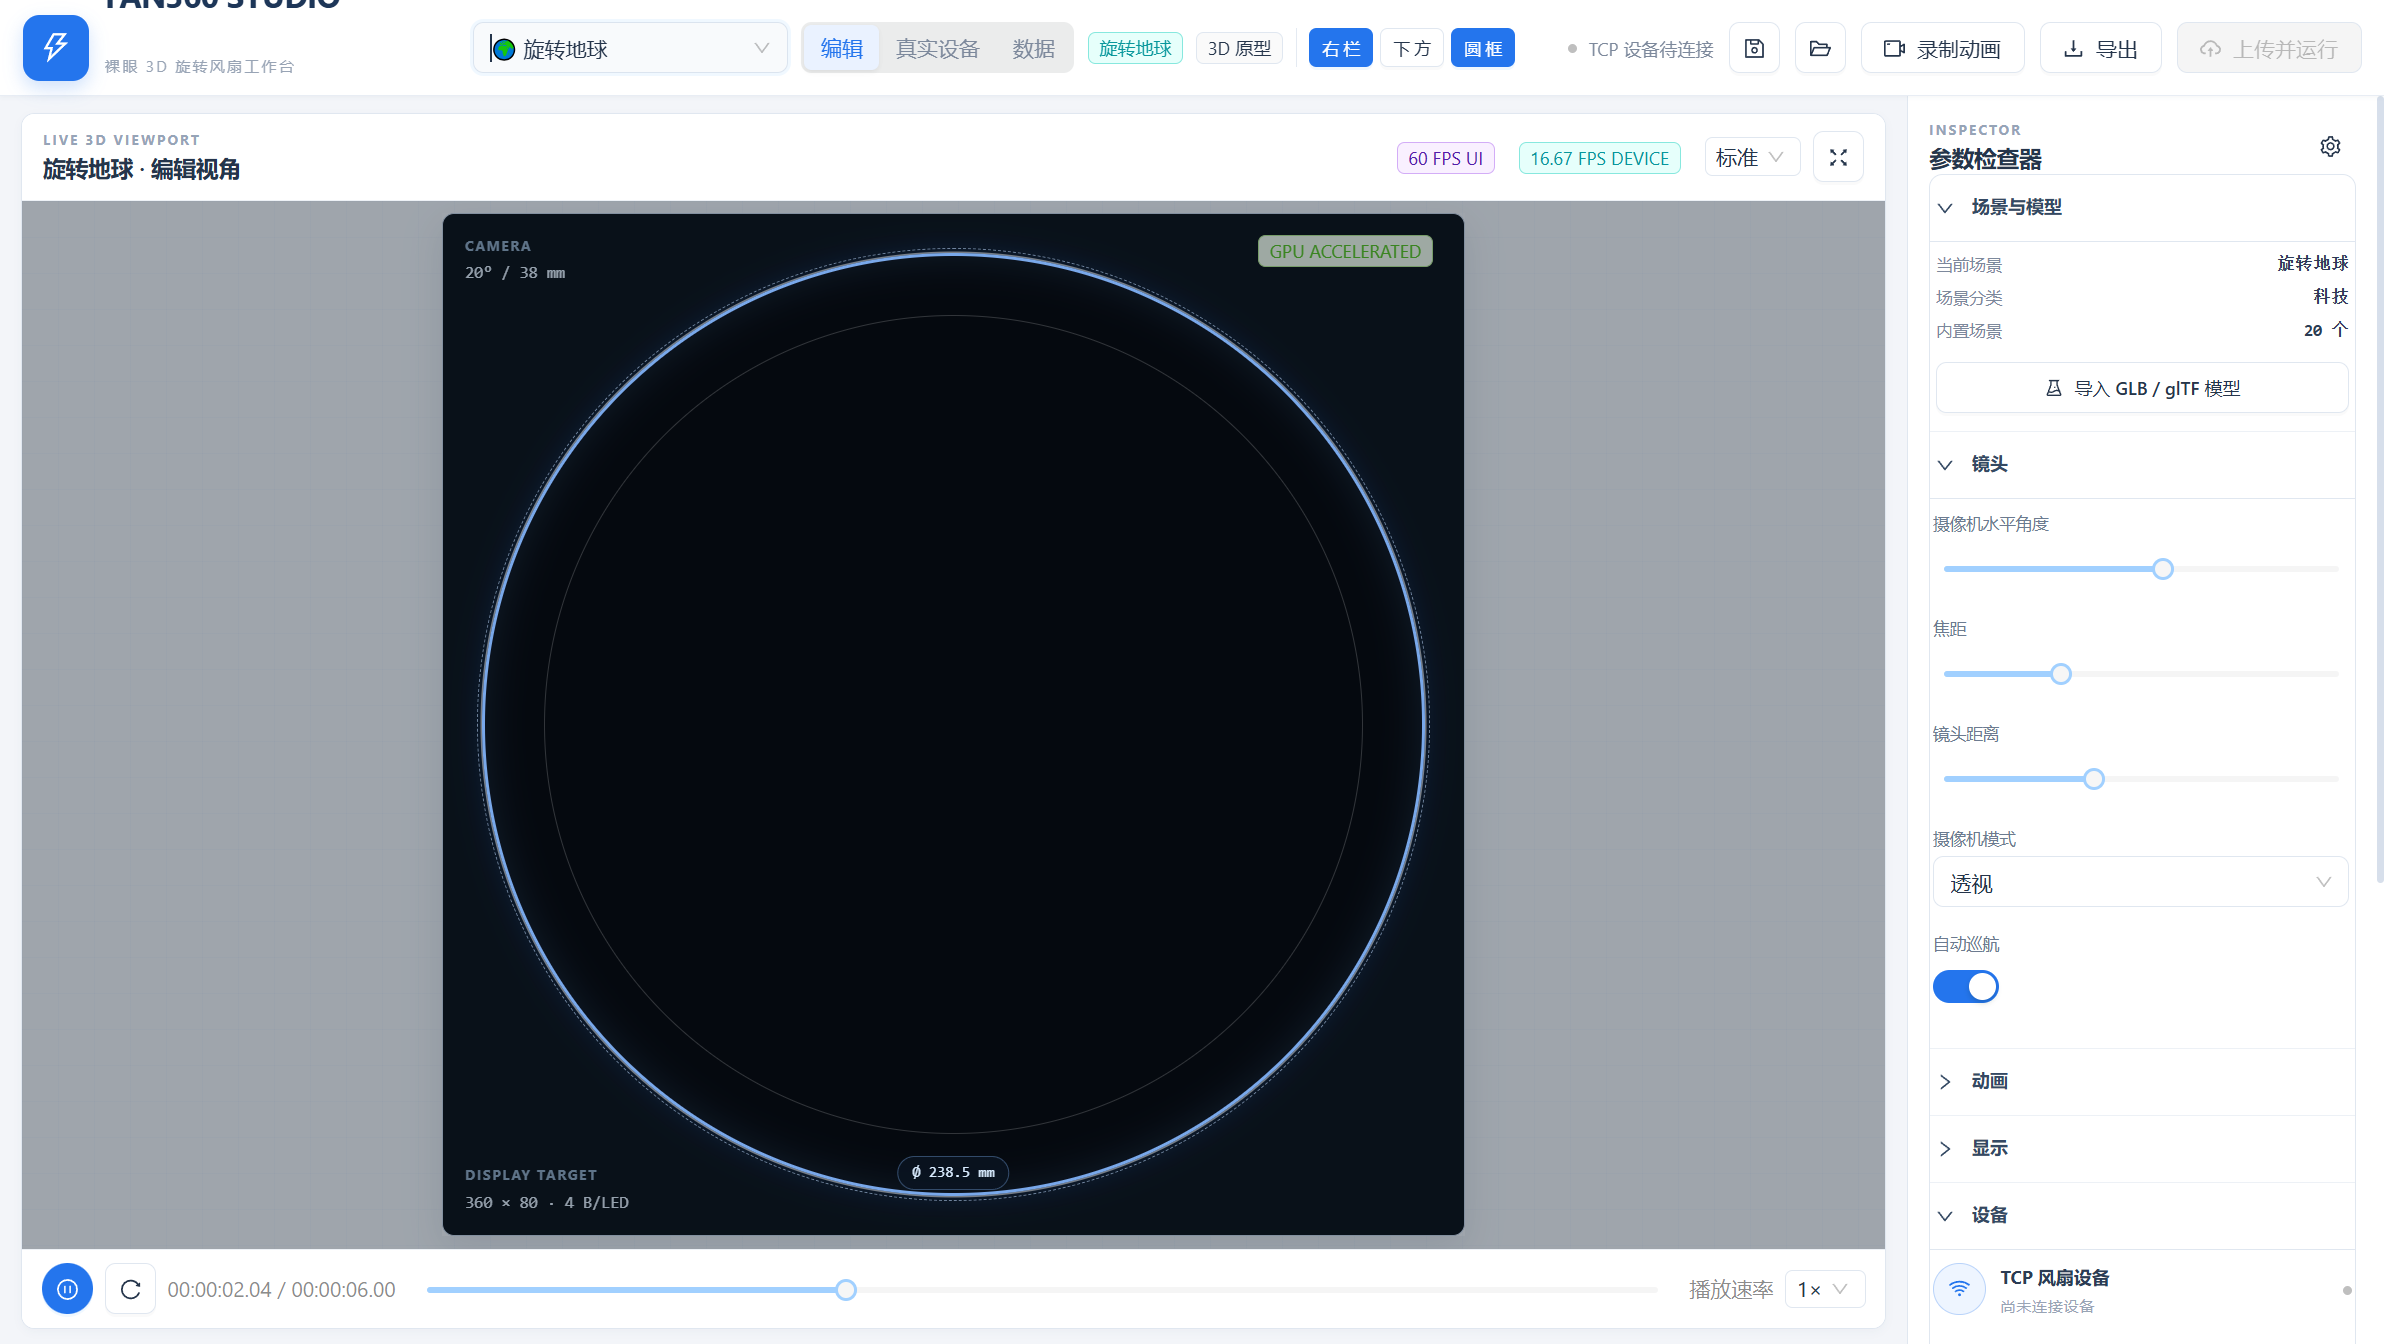
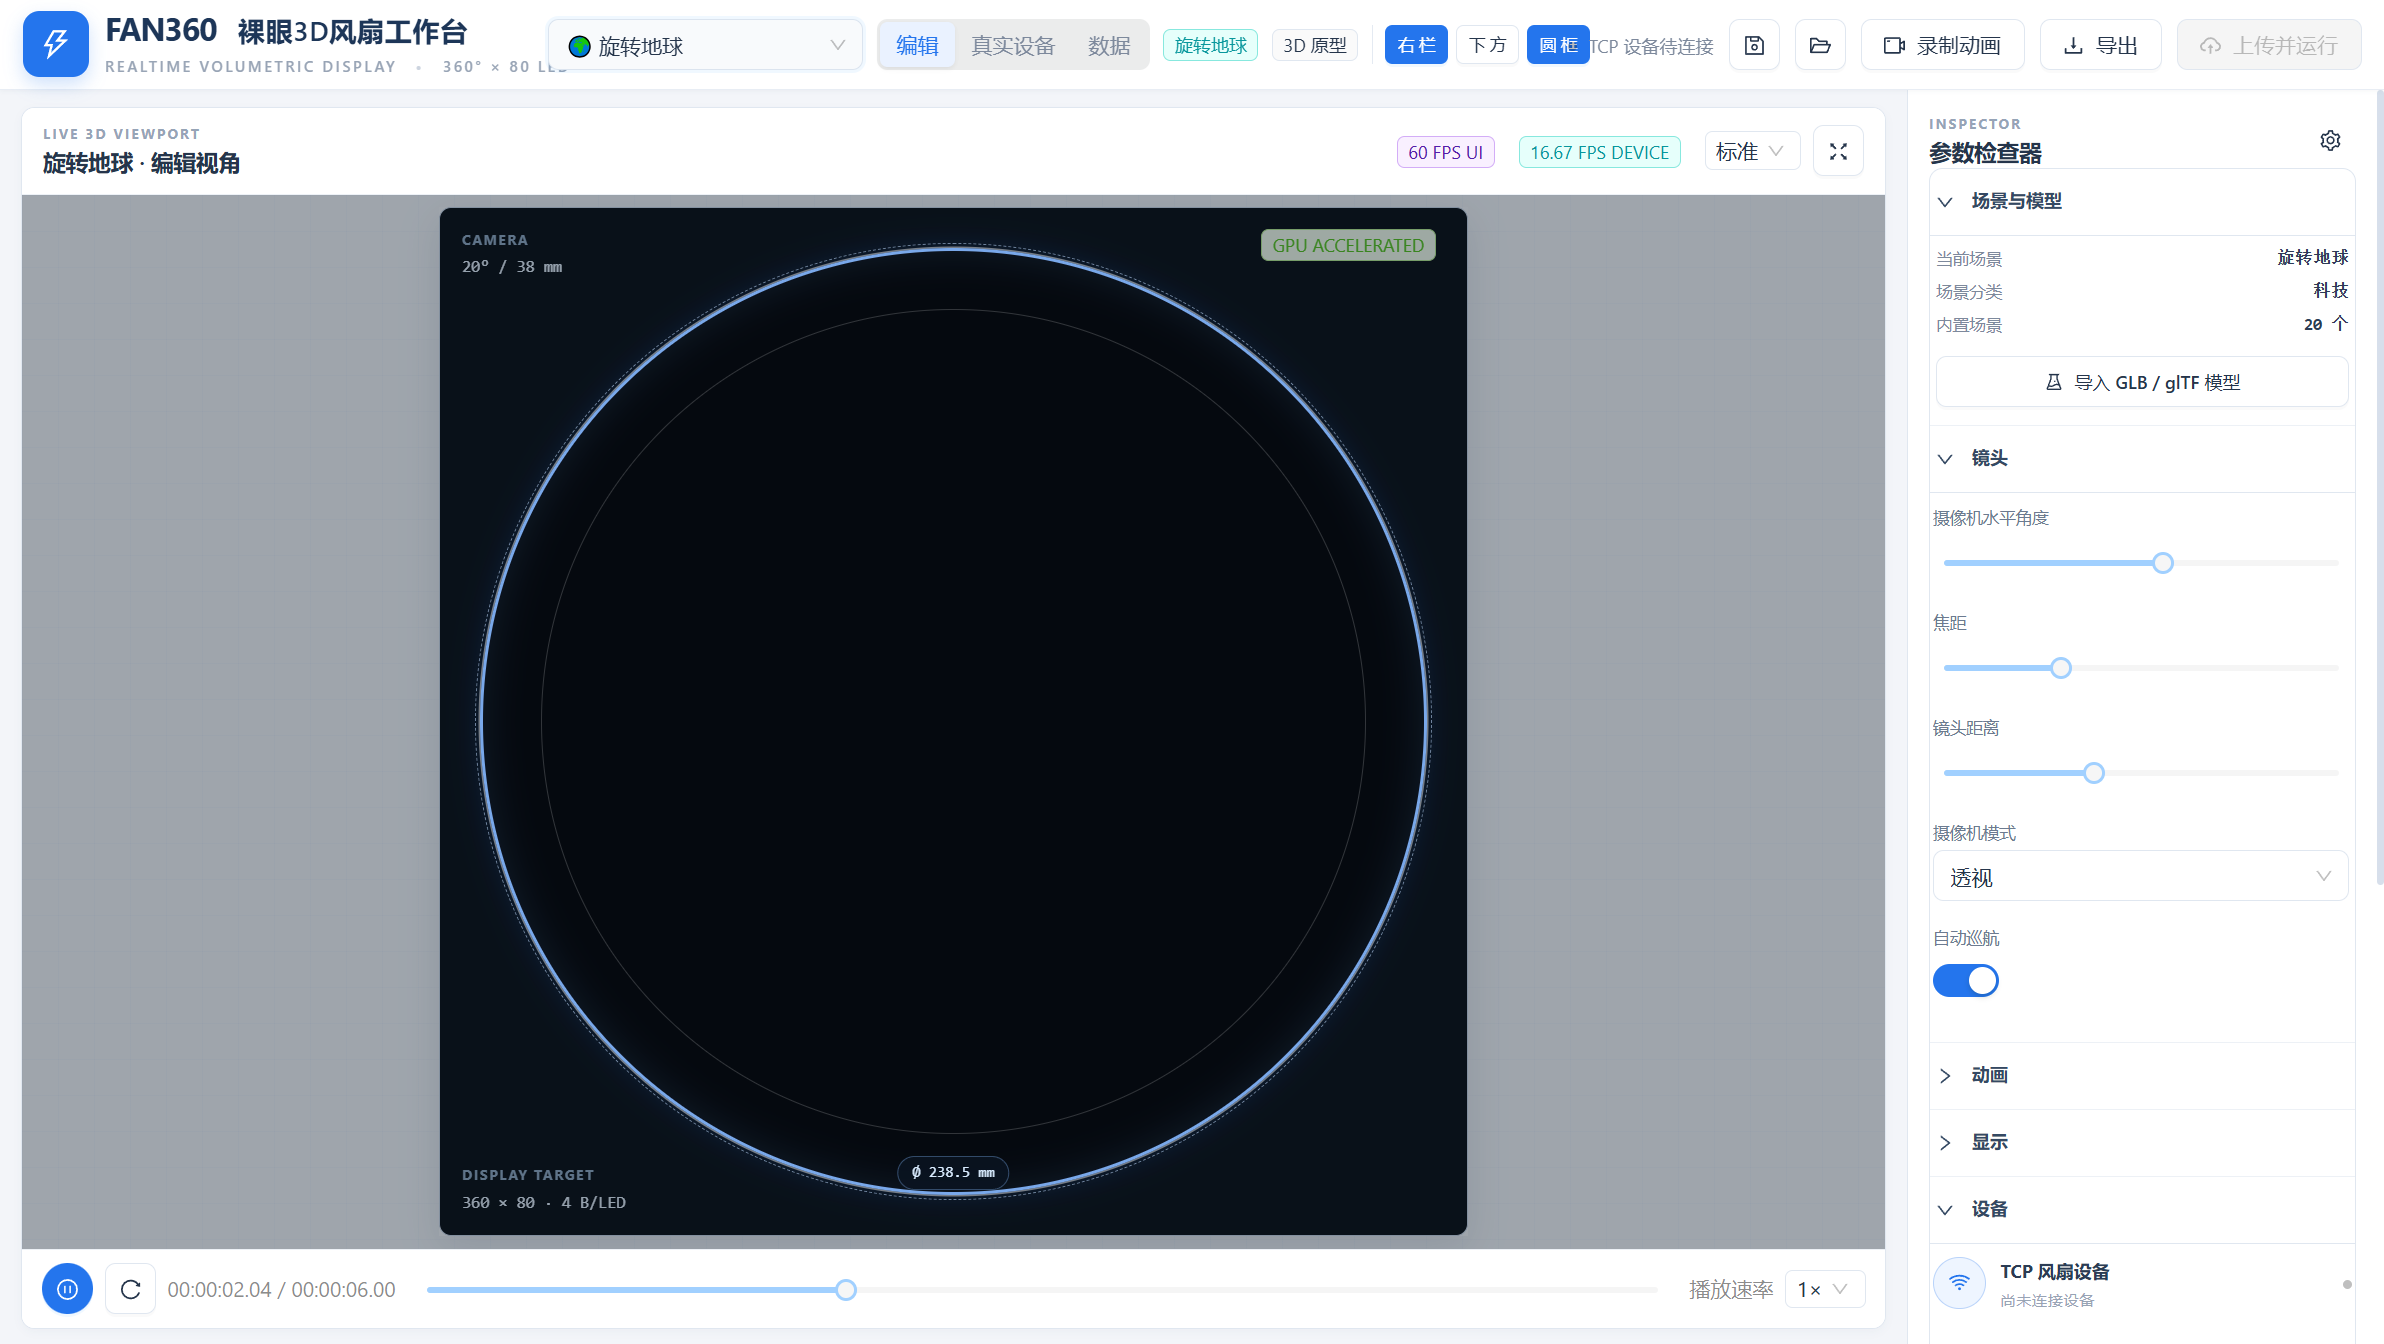
fix: match reference header and visibility

diff --git a/apps/desktop/src/renderer/src/App.tsx b/apps/desktop/src/renderer/src/App.tsx
@@ -47,7 +47,7 @@ import {
   Typography,
 } from 'antd'
 
-const { Header, Sider, Content } = Layout
+const { Sider, Content } = Layout
 const { Text, Title } = Typography
 
 function PolarCapture({
@@ -200,12 +200,18 @@ class SceneErrorBoundary extends Component<{ children: ReactNode }, { failed: bo
 
 function EditorScene({ scene, playing, speed, cameraAngle, brightness, bloomEnabled, bloomStrength, onPolarFrame, onPolarStats, modelAsset }: { scene: SceneItem; playing: boolean; speed: number; cameraAngle: number; brightness: number; bloomEnabled: boolean; bloomStrength: number; onPolarFrame: (frame: Uint8Array) => void; onPolarStats: (processingMs: number) => void; modelAsset?: ImportModelResult | null }) {
   return (
-    <Canvas shadows="basic" dpr={[1, 2]} camera={{ position: [0.4, 0.2, 4.6], fov: 38 }}>
-      <color attach="background" args={['#05090f']} />
-      <fog attach="fog" args={['#05090f', 5.5, 10]} />
+    <Canvas
+      shadows="basic"
+      dpr={[1, 1.5]}
+      camera={{ position: [0, 0.25, 4.15], fov: 38 }}
+      gl={{ antialias: true, alpha: false, powerPreference: 'high-performance', preserveDrawingBuffer: true }}
+      onCreated={({ gl }) => { gl.domElement.dataset.webglReady = 'true' }}
+    >
+      <color attach="background" args={['#0b1524']} />
+      <fog attach="fog" args={['#0b1524', 5.8, 10.5]} />
       <StudioEnvironment />
-      <ambientLight intensity={0.5} />
-      <directionalLight position={[4, 6, 4]} intensity={2.5} castShadow shadow-mapSize={[1024, 1024]} />
+      <ambientLight intensity={0.95} />
+      <directionalLight position={[4, 6, 4]} intensity={3.1} castShadow shadow-mapSize={[1024, 1024]} />
       <pointLight position={[-4, 0, -2]} color="#207cff" intensity={4} />
       <Float speed={playing ? 1.2 * speed : 0} rotationIntensity={0.16} floatIntensity={0.28}>
         <group rotation={[0.08, (cameraAngle * Math.PI) / 180, 0]}>
@@ -657,14 +663,14 @@ function App() {
 
   return (
     <Layout className="app-shell">
-      <Header className="topbar">
+      <header className="app-header">
         <div className="brand">
           <div className="brand-mark">
             <ThunderboltOutlined />
           </div>
-          <div>
-            <div className="brand-name">FAN360 STUDIO</div>
-            <div className="brand-subtitle">裸眼 3D 旋转风扇工作台</div>
+          <div className="brand-copy">
+            <h1>FAN360 <span>裸眼3D风扇工作台</span></h1>
+            <p>REALTIME VOLUMETRIC DISPLAY <span>•</span> 360° × 80 LED</p>
           </div>
         </div>
         <div className="topbar-center">
@@ -723,7 +729,7 @@ function App() {
             上传并运行
           </Button>
         </Space>
-      </Header>
+      </header>
 
       <Layout className="workspace">
         <Content className={`main-content ${showBottom ? 'has-bottom' : ''}`}>

diff --git a/apps/desktop/src/renderer/src/styles.css b/apps/desktop/src/renderer/src/styles.css
@@ -733,3 +733,50 @@ select {
     flex-basis: 158px;
   }
 }
+
+/* Exact Touch_Key header structure */
+.app-header {
+  height: 60px;
+  padding: 0 15px;
+  background: #ffffff;
+  display: flex;
+  justify-content: space-between;
+  align-items: center;
+  flex-shrink: 0;
+  border-bottom: 1px solid #e8edf4;
+  box-shadow: 0 1px 3px rgba(31, 55, 88, 0.04);
+  z-index: 2;
+}
+
+.brand-copy h1 {
+  margin: 0;
+  color: #1d3658;
+  font-size: 21px;
+  line-height: 1.2;
+  font-weight: 750;
+  letter-spacing: -0.5px;
+}
+
+.brand-copy h1 span {
+  margin-left: 9px;
+  font-size: 18px;
+  font-weight: 600;
+  letter-spacing: 0.5px;
+}
+
+.brand-copy p {
+  margin: 5px 0 0;
+  color: #98a4b5;
+  font-size: 10px;
+  font-weight: 600;
+  letter-spacing: 1.65px;
+}
+
+.brand-copy p span {
+  margin: 0 8px;
+  color: #ccd4df;
+}
+
+.workspace {
+  height: calc(100vh - 60px) !important;
+}
